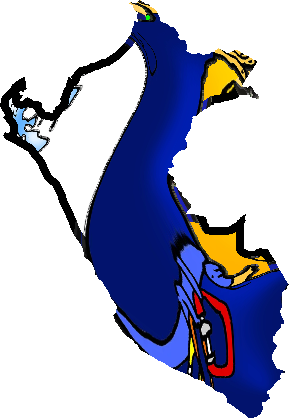
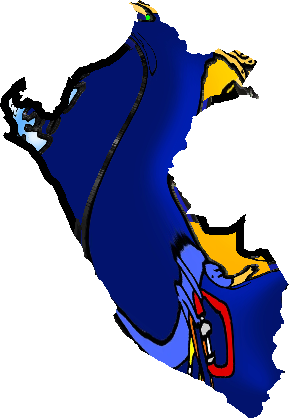
Lock forced-art fallback alpha to mask for Peru

Changed region(s): [[0.0621, 0.0931, 0.5276, 0.5585]]

diff --git a/tools/build_globe_global_warps.py b/tools/build_globe_global_warps.py
@@ -68,6 +68,7 @@ MICRO_MASK_SNAP_MIN_IOU = 0.90
 ART_PRIORITY_FALLBACK_MAX_TARGET_AREA_PX = 1200000
 ART_FALLBACK_BLEND_MIN_TARGET_AREA_PX = 4000
 ART_FALLBACK_BLEND_RECALL_DELTA = 0.010
+FORCED_ART_MASK_LOCK_MIN_RECALL = 0.90
 TINY_FALLBACK_MIN_SCORE_GAIN = 0.008
 
 # Region-specific tuning where one global default is not sufficient.
@@ -954,6 +955,40 @@ def blend_art_fallback_with_sheet(
     return out
 
 
+def lock_alpha_to_mask(
+    rgba: np.ndarray,
+    mask_u8: np.ndarray,
+    *,
+    pad_radius: int = 2,
+) -> np.ndarray:
+    """Force full in-mask coverage while keeping color as local as possible."""
+    mask = (mask_u8 > 0)
+    if not np.any(mask):
+        return rgba
+
+    out = rgba.copy()
+    pred = out[:, :, 3] > OUTPUT_ALPHA_THRESHOLD
+    missing = mask & ~pred
+    if np.any(missing):
+        padded = edge_pad_rgba(out, radius=max(1, pad_radius))
+        out[missing, :3] = padded[missing, :3]
+
+        # If pad did not reach some deep holes, fallback to median in-mask color.
+        still_missing = missing & np.all(out[:, :, :3] == 0, axis=2)
+        if np.any(still_missing):
+            src = out[pred & mask, :3]
+            if src.size > 0:
+                fill_color = np.median(src.astype(np.uint16), axis=0).astype(np.uint8)
+            else:
+                fill_color = np.array([255, 255, 255], dtype=np.uint8)
+            out[still_missing, :3] = fill_color
+
+    out[:, :, 3][mask] = 255
+    out[~mask, :3] = 0
+    out[:, :, 3][~mask] = 0
+    return out
+
+
 def stabilize_tiny_island_rgba(
     warped_rgba: np.ndarray,
     mask_u8: np.ndarray,
@@ -1800,6 +1835,12 @@ def main() -> None:
                         # Keep fallback motif where it lands well, but recover
                         # missing geographic coverage from the shared sheet.
                         fallback_rgba = blend_art_fallback_with_sheet(sheet_rgba, fallback_rgba, mask_u8)
+                    if forced_art:
+                        fallback_recall = alpha_recall(fallback_rgba[:, :, 3], mask_u8)
+                        if fallback_recall < FORCED_ART_MASK_LOCK_MIN_RECALL:
+                            # For explicit user-reported breakages, prioritize
+                            # complete in-mask coverage over sparse dropouts.
+                            fallback_rgba = lock_alpha_to_mask(fallback_rgba, mask_u8, pad_radius=2)
                     warped_rgba = fallback_rgba
                     used_tiny_fallback = True
                     tiny_fallback_count += 1
